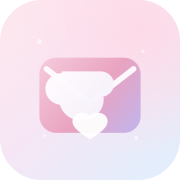
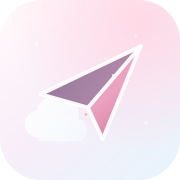
feat: 新纸飞机图标；精简关于页

Changed region(s): [[0.1944, 0.25, 0.8056, 0.75]]

diff --git a/src/components/BrandMark.vue b/src/components/BrandMark.vue
@@ -1,41 +1,80 @@
 <template>
   <svg
     class="brand-mark"
-    viewBox="0 0 48 48"
+    viewBox="0 0 512 512"
     fill="none"
     xmlns="http://www.w3.org/2000/svg"
     aria-hidden="true"
   >
     <defs>
-      <linearGradient :id="`brand-${uid}`" x1="8" y1="12" x2="40" y2="42" gradientUnits="userSpaceOnUse">
-        <stop stop-color="#f4c6d8" />
-        <stop offset="0.55" stop-color="#e9a3c0" />
-        <stop offset="1" stop-color="#c7b2e6" />
+      <linearGradient :id="`bg-${uid}`" x1="64" y1="48" x2="448" y2="464" gradientUnits="userSpaceOnUse">
+        <stop stop-color="#fff7fa" />
+        <stop offset="0.48" stop-color="#f7eef9" />
+        <stop offset="1" stop-color="#eaf3fc" />
       </linearGradient>
-      <linearGradient :id="`cloud-${uid}`" x1="12" y1="18" x2="36" y2="34" gradientUnits="userSpaceOnUse">
+      <radialGradient :id="`glow-${uid}`" cx="0.78" cy="0.12" r="0.72">
+        <stop stop-color="#ffd7e4" stop-opacity="0.9" />
+        <stop offset="1" stop-color="#ffd7e4" stop-opacity="0" />
+      </radialGradient>
+      <linearGradient :id="`plane-top-${uid}`" x1="132" y1="150" x2="372" y2="300" gradientUnits="userSpaceOnUse">
+        <stop stop-color="#8c759b" />
+        <stop offset="1" stop-color="#bd8fac" />
+      </linearGradient>
+      <linearGradient :id="`plane-bottom-${uid}`" x1="270" y1="300" x2="350" y2="402" gradientUnits="userSpaceOnUse">
+        <stop stop-color="#e9a3c0" />
+        <stop offset="1" stop-color="#d9799f" />
+      </linearGradient>
+      <linearGradient :id="`cloud-${uid}`" x1="90" y1="280" x2="250" y2="400" gradientUnits="userSpaceOnUse">
         <stop stop-color="#ffffff" />
-        <stop offset="1" stop-color="#f2ecfa" />
+        <stop offset="1" stop-color="#f4f8fd" />
       </linearGradient>
     </defs>
-    <rect x="5" y="12" width="38" height="28" rx="9" :fill="`url(#brand-${uid})`" />
+
+    <rect width="512" height="512" rx="118" :fill="`url(#bg-${uid})`" />
+    <rect width="512" height="512" rx="118" :fill="`url(#glow-${uid})`" />
+
+    <g opacity="0.55" fill="#ffffff">
+      <circle cx="104" cy="126" r="6" />
+      <circle cx="416" cy="350" r="5" />
+      <circle cx="386" cy="104" r="3.5" />
+    </g>
+
     <path
-      d="M8 17.5L24 29l16-11.5"
-      stroke="#ffffff"
-      stroke-width="2"
-      stroke-linecap="round"
-      stroke-linejoin="round"
-      opacity="0.9"
-    />
-    <path
-      d="M15.5 17.5c-2.6 0-4.7 2-4.7 4.5 0 2.3 1.8 4.2 4.1 4.5.8 2.6 3.2 4.5 6.1 4.5 3.5 0 6.4-2.7 6.4-6.1 0-.2 0-.5-.1-.7 1.7-.4 3-1.8 3-3.6 0-2-1.7-3.6-3.8-3.6H15.5z"
+      d="M112 392c-23 0-41-17-41-39 0-19 14-35 33-39 7-27 31-46 60-46 34 0 61 27 61 60 0 4 0 7-1 11 14 4 24 16 24 31 0 18-15 32-34 32H112z"
       :fill="`url(#cloud-${uid})`"
-      opacity="0.96"
+      opacity="0.86"
     />
+
     <path
-      d="M24 38.5c-1.8-1.7-4.5-.6-4.5 1.4 0 1.9 2.7 3.4 4.5 4.6 1.8-1.2 4.5-2.7 4.5-4.6 0-2-2.7-3.1-4.5-1.4z"
-      fill="#ffffff"
+      d="M244 326Q292 292 334 258"
+      fill="none"
+      stroke="#d98aa8"
+      stroke-width="7"
+      stroke-linecap="round"
+      stroke-dasharray="1 18"
+      opacity="0.55"
+    />
+
+    <path d="M400 132L116 268l134 38z" :fill="`url(#plane-top-${uid})`" />
+    <path d="M400 132L250 306l42 90z" :fill="`url(#plane-bottom-${uid})`" />
+    <path
+      d="M400 132L116 268l134 38 42 90 108-264z"
+      fill="none"
+      stroke="#ffffff"
+      stroke-width="11"
+      stroke-linejoin="round"
+      stroke-linecap="round"
       opacity="0.92"
     />
+    <path
+      d="M400 132L250 306"
+      stroke="#ffffff"
+      stroke-width="11"
+      stroke-linecap="round"
+      opacity="0.92"
+    />
+
+    <circle cx="322" cy="214" r="4" fill="#ffffff" opacity="0.7" />
   </svg>
 </template>
 

diff --git a/src/App.vue b/src/App.vue
@@ -137,7 +137,7 @@
           <span>只保存在这台设备</span>
         </div>
         <button type="button" class="foot-link" @click="openSettings('about')">
-          设置、备份与安装
+          设置与备份
         </button>
       </footer>
     </main>
@@ -168,7 +168,6 @@
       @close="closeSettings"
       @save="saveSettingsFromSheet"
       @clear="clearData"
-      @install="installApp"
     />
 
     <PosterModal
@@ -281,7 +280,6 @@ let toastTimer = null
 let popupTimer = null
 let tickTimer = null
 let refreshTimer = null
-let deferredPrompt = null
 
 /* ------------------------------------------------------------------ */
 /* 派生数据                                                            */
@@ -606,7 +604,7 @@ function clearData() {
 }
 
 /* ------------------------------------------------------------------ */
-/* 安装、提示与演示                                                    */
+/* 提示与演示                                                          */
 /* ------------------------------------------------------------------ */
 
 function showToast(message) {
@@ -615,26 +613,6 @@ function showToast(message) {
   toastTimer = setTimeout(() => {
     toast.value = ''
   }, 2800)
-}
-
-function onBeforeInstall(event) {
-  event.preventDefault()
-  deferredPrompt = event
-}
-
-async function installApp() {
-  if (!deferredPrompt) {
-    showToast('iPhone 用 Safari 分享 → 添加到主屏幕；Android 用浏览器菜单安装')
-    return
-  }
-  try {
-    deferredPrompt.prompt()
-    const choice = await deferredPrompt.userChoice
-    deferredPrompt = null
-    showToast(choice && choice.outcome === 'accepted' ? '已经放到主屏幕了' : '随时可以再安装')
-  } catch (e) {
-    showToast('安装没有完成，可以稍后再试')
-  }
 }
 
 function setMock(scene) {
@@ -665,8 +643,6 @@ watch(
 )
 
 onMounted(() => {
-  window.addEventListener('beforeinstallprompt', onBeforeInstall)
-
   if (ready.value) {
     if (cache.value && cache.value.fetchedAt) rebuildEvents()
     loadAll(false)
@@ -697,7 +673,6 @@ function onVisible() {
 }
 
 onBeforeUnmount(() => {
-  window.removeEventListener('beforeinstallprompt', onBeforeInstall)
   document.removeEventListener('visibilitychange', onVisible)
   clearInterval(tickTimer)
   clearInterval(refreshTimer)

diff --git a/src/components/SettingsSheet.vue b/src/components/SettingsSheet.vue
@@ -273,14 +273,6 @@
               </div>
             </div>
 
-            <div class="panel-title"><span>数据与隐私</span></div>
-            <p class="about-text">
-              城市、信件、短句都只存在这台设备的 localStorage 里，不会上传到任何服务器。
-            </p>
-            <p class="about-text">
-              纯静态页面无法在关闭后推送消息。真正把关心送到她手上的方式，是把关心卡做成图片发给她。
-            </p>
-
             <div class="panel-title with-gap"><span>API 设置</span></div>
             <label class="field">
               <span>和风 key（留空使用站点内置）</span>
@@ -299,12 +291,6 @@
               <input ref="fileInput" type="file" accept="application/json,.json" hidden @change="onImportFile" />
             </div>
             <button type="button" class="danger-btn" @click="onClear">清除本机所有数据</button>
-
-            <div class="panel-title with-gap"><span>安装</span></div>
-            <p class="about-text">
-              iPhone：Safari → 分享 → 添加到主屏幕。Android：Chrome → 菜单 → 安装应用。
-            </p>
-            <button type="button" class="soft-btn wide" @click="$emit('install')">尝试安装到主屏</button>
 
             <p v-if="notice" class="sheet-notice">{{ notice }}</p>
           </section>
@@ -340,7 +326,7 @@ const props = defineProps({
   startNewLetter: { type: Boolean, default: false }
 })
 
-const emit = defineEmits(['close', 'save', 'clear', 'install'])
+const emit = defineEmits(['close', 'save', 'clear'])
 
 const tabs = [
   { key: 'cities', label: '城市' },
@@ -843,12 +829,6 @@ onBeforeUnmount(() => clearTimeout(deleteTimer))
   font-size: 10px;
   font-weight: 600;
   color: #8b7c96;
-}
-.soft-btn.wide {
-  width: 100%;
-  margin-top: 4px;
-  padding: 11px;
-  font-size: 11px;
 }
 .save-letter {
   width: 100%;

diff --git a/public/sw.js b/public/sw.js
@@ -1,6 +1,6 @@
 /* Dear Weather Service Worker：让页面能离线打开，天气本身仍然实时请求。 */
 
-const VERSION = 'dear-weather-v1.0.1'
+const VERSION = 'dear-weather-v1.0.2'
 
 const CORE = [
   './',
